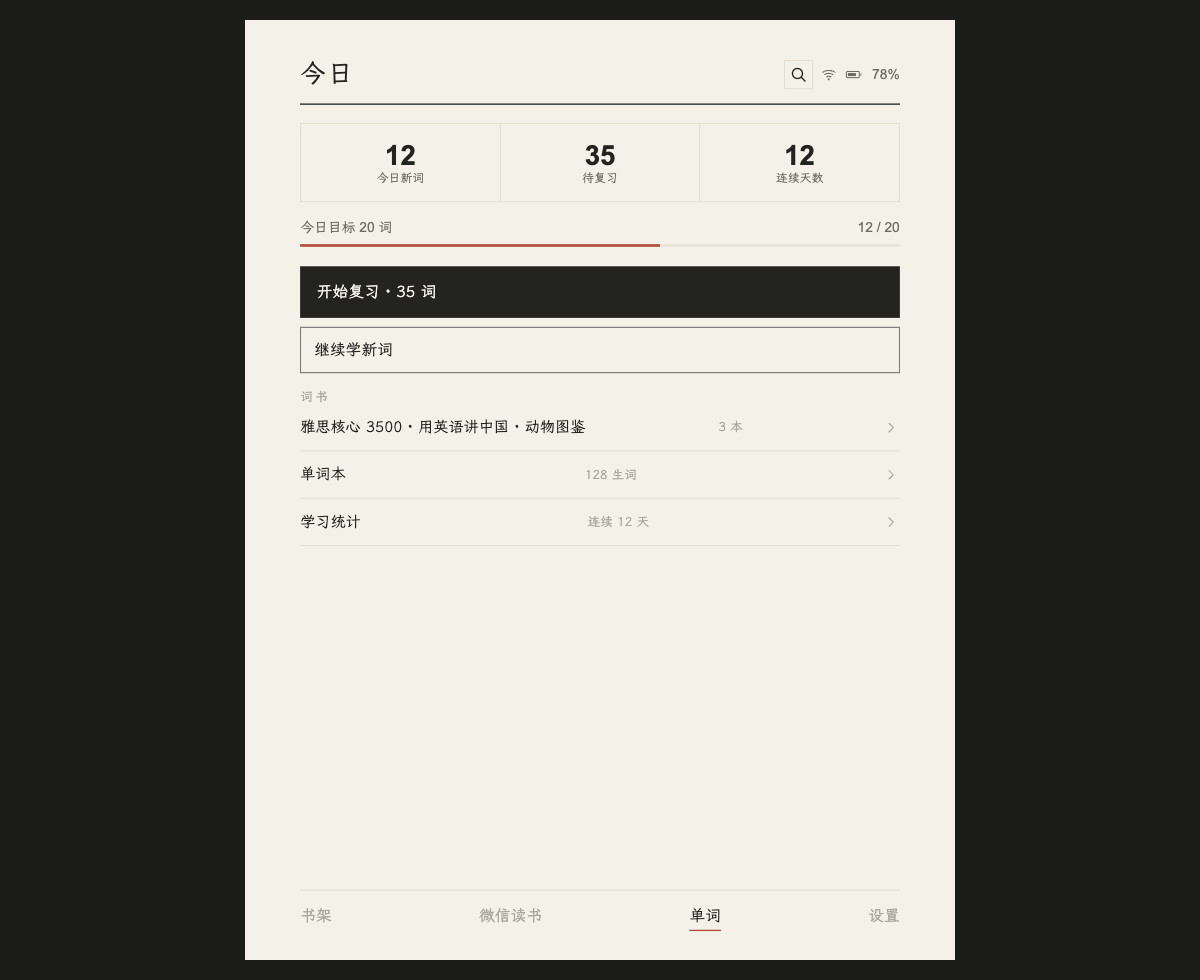
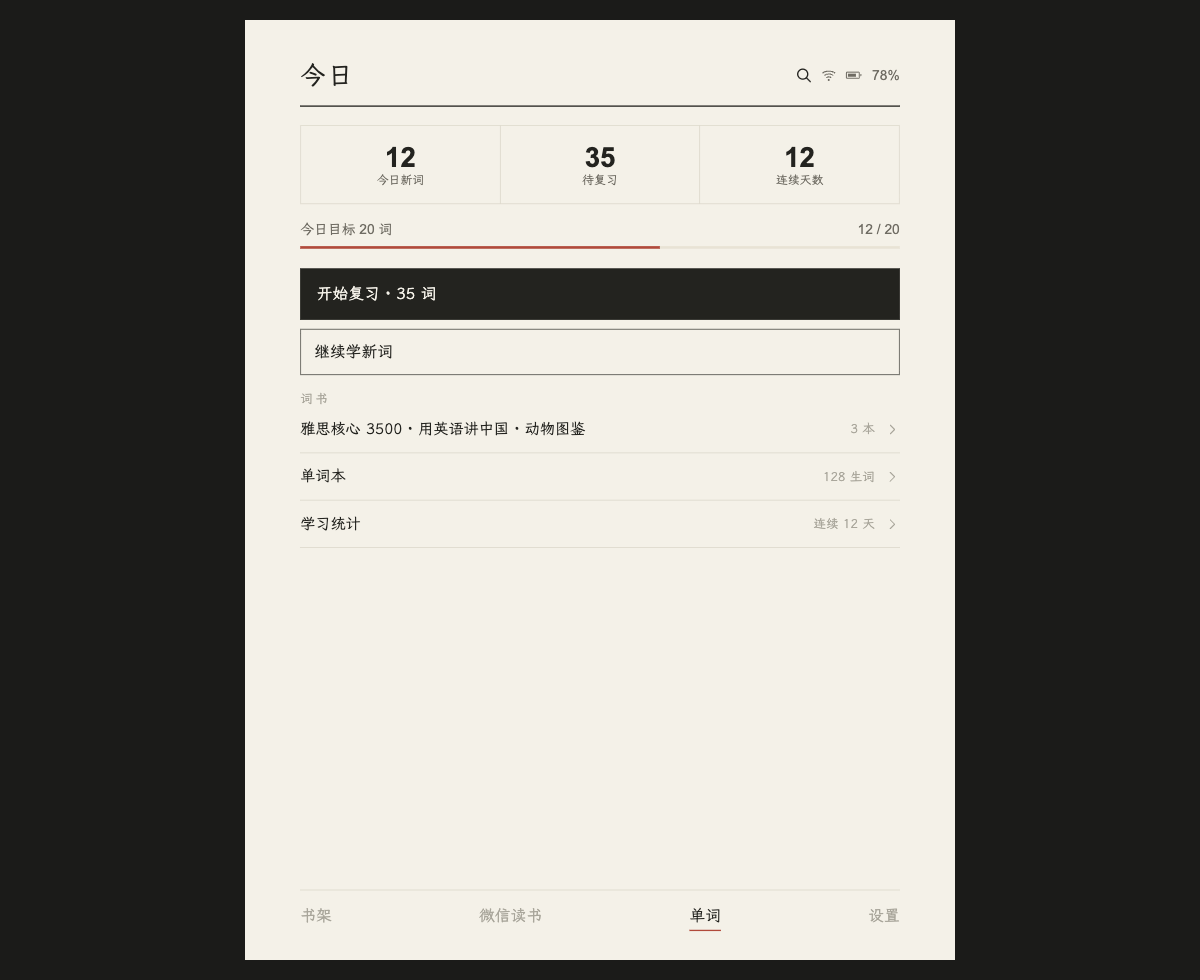
fix(prototype): 列表行右侧数值对齐
pnum 与 chevron 都用了 margin-left:auto，导致自由空间被平分、数值落在中间。
改为首列 flex:1、chevron 不再 auto，三个数值右边缘统一。

diff --git a/demo/prototype/index.html b/demo/prototype/index.html
@@ -99,8 +99,9 @@ textarea{width:100%;height:210px;border:1px solid var(--rule);padding:20px;font-
 .pclose{width:52px;height:52px;display:flex;align-items:center;justify-content:center;cursor:pointer;margin-right:-14px;}
 .pgroup{margin-top:22px;border-top:1px solid var(--rule);}
 .prow{display:flex;align-items:center;padding:22px 0;border-bottom:1px solid var(--rule);font-family:"LXGW WenKai",serif;font-size:23px;cursor:pointer;}
-.prow .chev{margin-left:auto;display:flex;align-items:center;margin-right:4px;}
-.prow .pnum{color:var(--faint);font-size:19px;margin-left:auto;margin-right:12px;}
+.prow > span:first-child{flex:1;min-width:0;}
+.prow .chev{display:flex;align-items:center;margin-left:6px;margin-right:2px;flex:none;}
+.prow .pnum{color:var(--faint);font-size:19px;margin-left:auto;margin-right:10px;flex:none;text-align:right;}
 .toc-list li:last-child{border-bottom:1px solid var(--rule);padding-bottom:18px;}
 .chart{display:flex;align-items:flex-end;gap:16px;height:200px;margin:18px 0 6px;}
 .chart .col{flex:1;display:flex;flex-direction:column;justify-content:flex-end;align-items:center;height:100%;}
